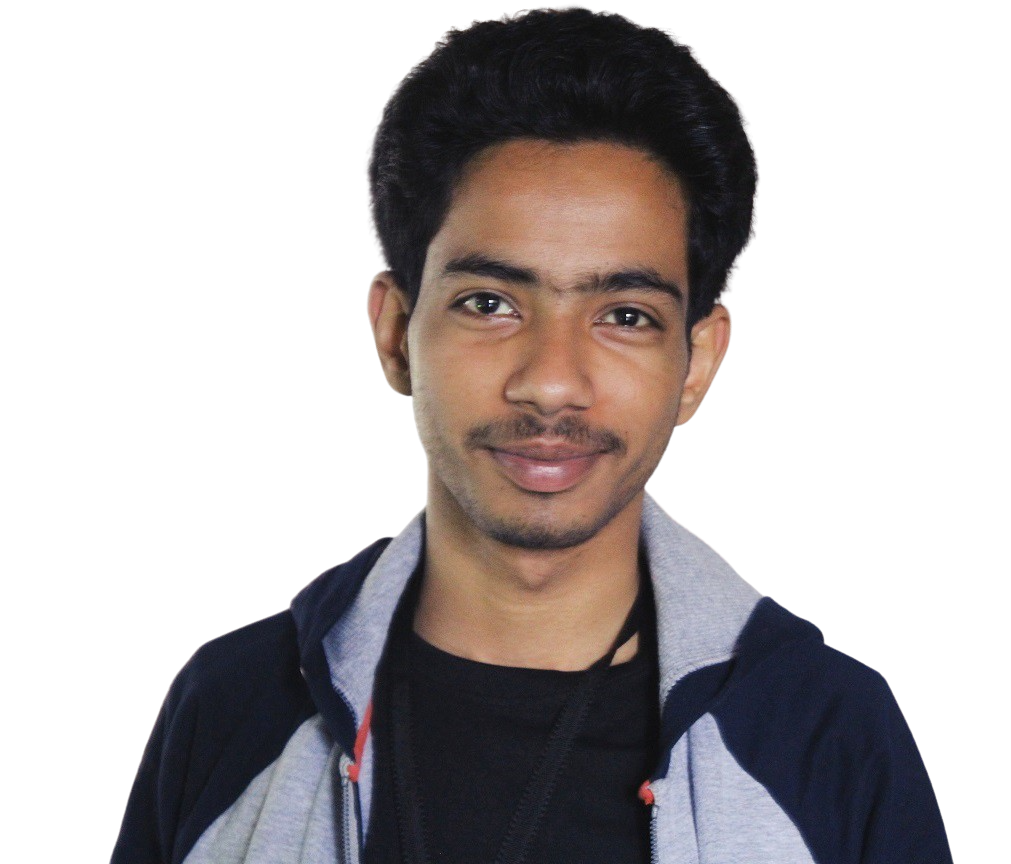
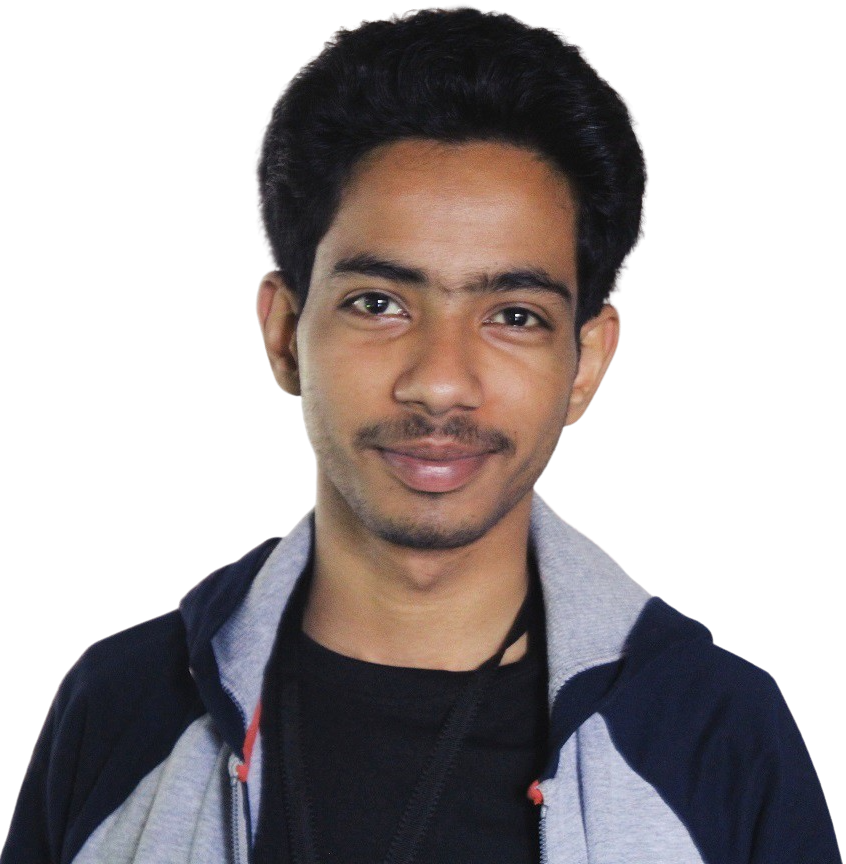
Initial Updations

diff --git a/mayank-khurmai.css b/mayank-khurmai.css
@@ -6,8 +6,7 @@
 
 body{
     background-image: url("mayank_khurmai.png");
-    background-position: center;
-  background-repeat: no-repeat;
-  background-size: cover;
-  height: 100%;
+    background-size: inherit;
+    background-repeat: no-repeat;
+    background-position: top;
 }
